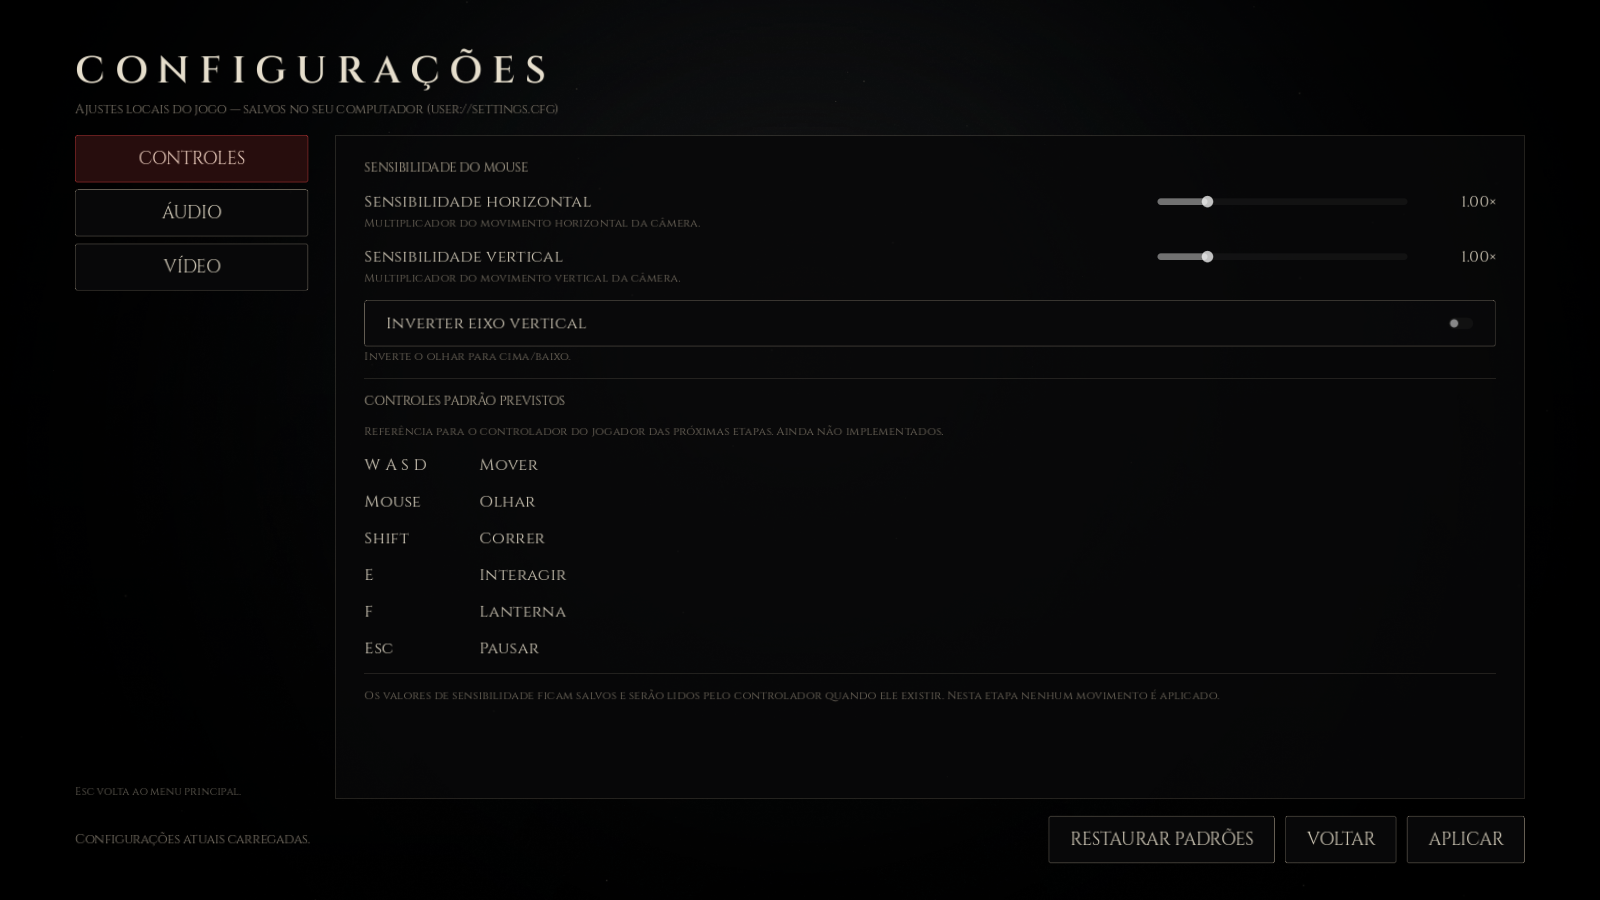
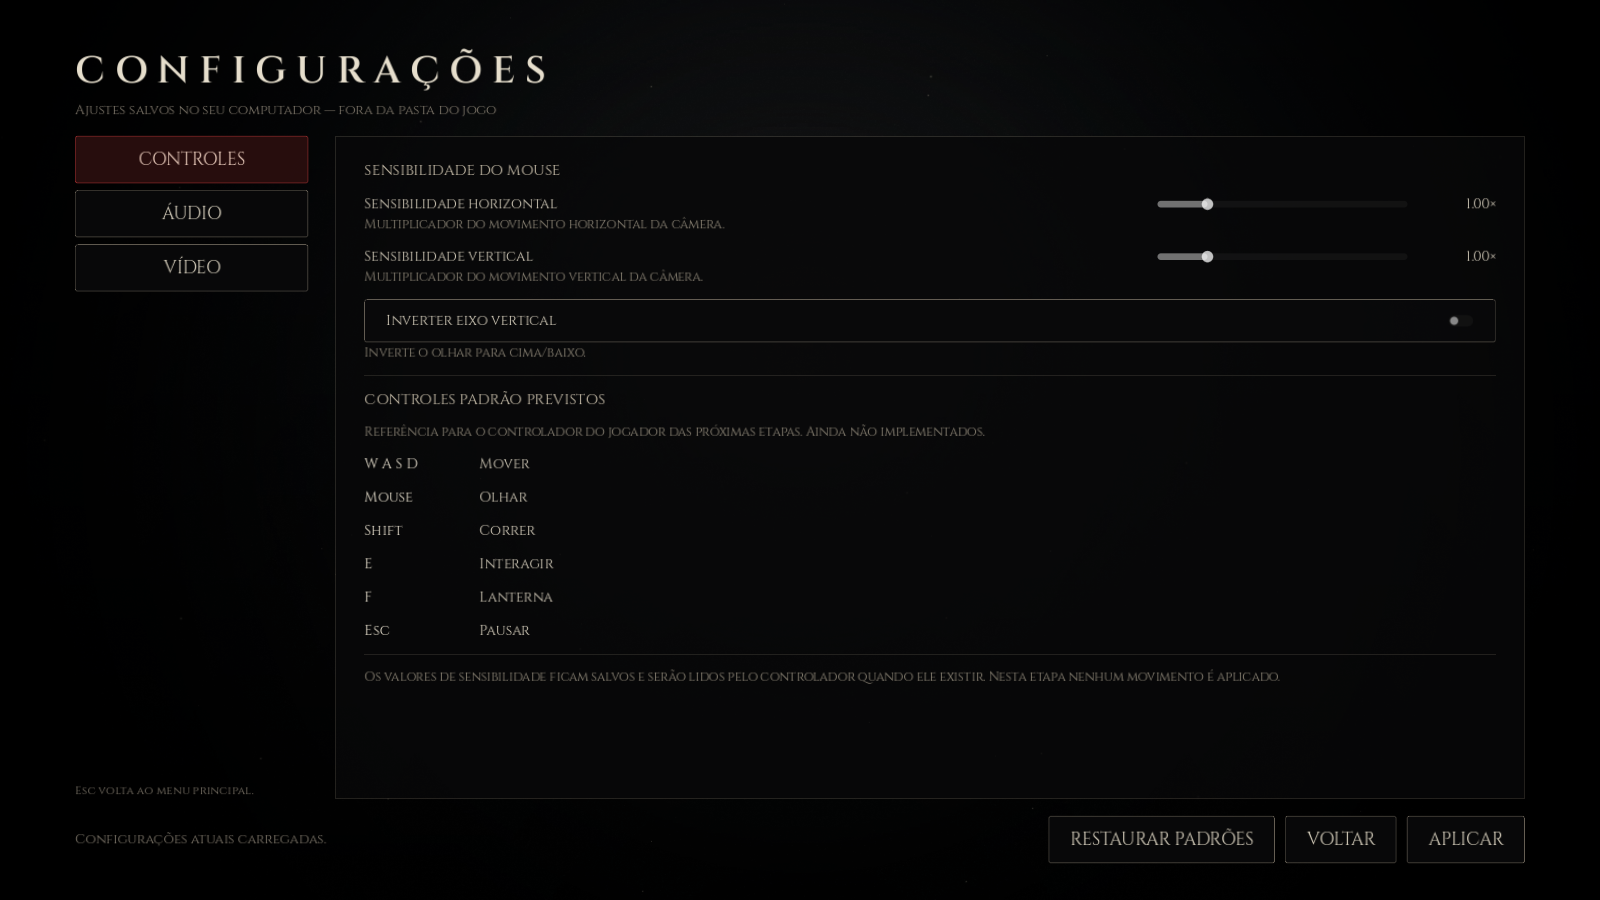
Docs: resultados reais da Etapa 3, screenshot das configurações e hash do ZIP

diff --git a/docs/ETAPA-3.md b/docs/ETAPA-3.md
@@ -96,11 +96,101 @@ devolve apenas o seu fragmento de configuração.
 
 ## 4. Testes executados
 
-_(a preencher com os resultados reais da execução do workflow)_
+Workflow [`.github/workflows/build.yml`](../.github/workflows/build.yml),
+execução **39341579671** (commit `1c8cdb9`), Godot **4.7.2-stable official**
+nos dois runners.
+
+| Job | Passos | Resultado |
+| --- | --- | --- |
+| Linux — importar, testar e validar o pacote | 22/22 | aprovado |
+| Windows real — exportar e executar o `.exe` | 18/18 | aprovado |
+
+### 4.1 Teste de fumaça (Linux e Windows)
+
+`SMOKE TEST OK — 158 verificações aprovadas` nos dois sistemas.
+
+Cobre:
+
+- configuração do projeto: nome, versão, renderizador, resolução lógica
+  1920×1080, stretch `canvas_items`/`keep`, cena principal, ícone, boot splash e
+  layout de buses;
+- autoloads `AppInfo`, `GameSettings` e `UiAudio` presentes e registrados;
+- tema, fontes Cinzel e as texturas da identidade;
+- os dois WAV de interface existem e importam;
+- módulos, READMEs, documentação e ausência de código nos módulos preparatórios;
+- cena inicial: todos os nós, JOGAR desabilitado, **CONFIGURAÇÕES** e
+  **SAIR DO JOGO** presentes e conectados;
+- esquema: sensibilidade fora da faixa é limitada; volume 500 → 100; volume
+  negativo → 0; valor inválido → padrão; **modo de janela inválido → janela**
+  (não tela cheia); resolução minúscula → mínimo legível;
+- persistência: `apply()` grava; `load_settings()` relê; **uma nova instância do
+  gerenciador lê o mesmo arquivo** (simula fechar e reabrir); arquivo corrompido
+  cai nos padrões sem falhar; `restore_defaults()` grava os padrões;
+- áudio: os 5 buses existem; 25% aplicado ao bus `SFX`; 0% silencia `Music`;
+  voltar ao padrão reativa;
+- vídeo: resolução absurda limitada ao tamanho da tela; resolução minúscula sobe
+  ao mínimo; lista de resoluções válida; rótulos em português;
+- tela de configurações: instancia, 3 abas, 3 seções, apenas uma visível por vez,
+  troca de aba, 4 sliders no áudio, **APLICAR** grava 33%, **RESTAURAR PADRÕES**
+  volta a 80%, 2 listas no vídeo (resolução e 3 modos de janela).
+
+### 4.2 Fluxo real de interface (Linux e Windows)
+
+`UI FLOW OK — 27 verificações aprovadas` nos dois sistemas. Diferente do teste
+de fumaça, aqui as **cenas trocam de verdade** (menu → configurações → menu).
+
+- tela inicial abre; emblema, título e rodapé com F11 presentes; SAIR conectado;
+- **CONFIGURAÇÕES** abre a tela; 3 abas; CONTROLES por padrão; ÁUDIO com 4 sliders;
+- volume 37% + **APLICAR** → valor em memória e no arquivo;
+- **RESTAURAR PADRÕES** + **APLICAR** → 80% em memória e no arquivo;
+- VÍDEO: resolução + 3 modos; **tela cheia** aplicada e gravada;
+- **VOLTAR** retorna ao menu; reabrir mostra o modo de janela salvo;
+- **F11** alterna (2 → 0) e volta (0 → 2), gravando a preferência.
+
+### 4.3 Build exportado (Linux, sob Xvfb)
+
+- `TESTE 5`: o executável exportado abriu a cena inicial.
+- `TESTE 5b`: o build exportado **criou**
+  `~/.local/share/BlackSight/settings.cfg` com as seções `[meta]`, `[controls]`,
+  `[audio]` e `[video]` — prova de gravação em `user://`, fora da pasta do jogo.
+- `TESTE 6`: `.pck` de **1.376.692 bytes**, formato 4, **58 recursos**,
+  incluindo `default_bus_layout`, `settings_screen`, os 4 scripts de
+  configuração e os 2 WAV importados.
+- `TESTE 3b`: render real da tela de configurações em 1600×900 →
+  [`docs/screenshots/settings_screen.png`](screenshots/settings_screen.png).
+
+### 4.4 Pacote publicado
+
+| Item | Valor |
+| --- | --- |
+| ZIP | `BlackSight-Etapa3-Windows-x86_64.zip` |
+| Tamanho | **40.611.269 bytes** |
[1 lines of base64/hex data omitted]
+| `BlackSight.exe` | 109.193.728 bytes |
+| `BlackSight.pck` | 1.376.692 bytes |
+| Release | https://github.com/EtecStudy/BLACKSITE/releases/tag/v0.3.0-etapa3 |
+
+O `digest` do asset no GitHub (`sha256:d55afd98…`) confere com o hash calculado
+no job Windows: **o arquivo publicado é exatamente o que passou nos testes**.
 
 ## 5. Teste no Windows real
 
-_(a preencher com os resultados reais do job Windows)_
+Job `windows` no runner `windows-latest` (máquina Windows real da nuvem),
+18/18 passos.
+
+| Teste | Evidência obtida |
+| --- | --- |
+| W1 — importação | `.godot/imported` criado; 13 arquivos obrigatórios presentes |
+| W2 — fumaça | `SMOKE TEST OK — 158 verificações aprovadas` |
+| W2b — fluxo | `UI FLOW OK — 27 verificações aprovadas` |
+| W3 — cena inicial | `[Black Sight] Tela inicial carregada — v0.3.0 · Godot 4.7.2-stable (official) · gl_compatibility` e `Configurações carregadas: master=80 sfx=80 ambience=70 music=60 mode=windowed resolution=1600x900 vsync=true` |
+| W4 — exportação | `BlackSight.exe` e `BlackSight.pck` gerados |
+| W5 — `.exe` exportado | primeira execução: `Arquivo de configurações criado com os valores padrão` |
+| W5b — `%APPDATA%` | `%APPDATA%\BlackSight\settings.cfg` criado pelo `.exe`, com `mouse_sensitivity_x`, `master_volume`, `window_mode` e `vsync` (conteúdo integral no log) |
+| W6 — janela | `vivo_apos_25s=True` · `titulo_janela=Black Sight` |
+| W7 — pacote e metadados | `PACOTE OK` · `ProductName=Black Sight` · `FileDescription=Black Sight — Etapa 3` · `FileVersion=0.3.0.0` |
+
+O `.exe` executado no Windows é o mesmo empacotado no ZIP publicado.
 
 ## 6. Limitações e pendências desta etapa
 
@@ -111,6 +201,14 @@ _(a preencher com os resultados reais do job Windows)_
 - VSync pode ser ignorado por alguns drivers em GL Compatibility.
 - "Janela maximizada" não guarda o tamanho anterior da janela.
 - Não há remapeamento de teclas nesta etapa.
+- Os testes automatizados de fumaça e de fluxo rodam como cena e chamam
+  `quit()` no mesmo frame; ao encerrar, a Godot imprime avisos de objetos
+  liberados tardiamente (`ObjectDB instances were leaked at exit`). São avisos
+  do processo de teste, não do jogo: o `.exe` exportado encerra sem esses
+  avisos e o código de saída dos testes é 0.
+- O teste em Windows foi feito no runner `windows-latest` (Windows Server da
+  nuvem) com execução real do `.exe`; o teste na máquina do usuário é o passo
+  final de aceite.
 
 ## 7. Como verificar manualmente
 

diff --git a/README.md b/README.md
@@ -7,13 +7,15 @@
 
 ![Tela inicial do Black Sight](docs/screenshots/title_screen.png)
 
+![Tela de configurações do Black Sight](docs/screenshots/settings_screen.png)
+
 ## Download do jogo (Windows)
 
 **https://github.com/EtecStudy/BLACKSITE/releases/download/v0.3.0-etapa3/BlackSight-Etapa3-Windows-x86_64.zip**
 
-Arquivo: `BlackSight-Etapa3-Windows-x86_64.zip` (TAMANHO_BYTES bytes)
+Arquivo: `BlackSight-Etapa3-Windows-x86_64.zip` (40.611.269 bytes)
 
-SHA-256 do ZIP: `SHA256_ZIP`
[1 lines of base64/hex data omitted]
 
 1. Baixe e extraia o ZIP (mantenha `BlackSight.exe` e `BlackSight.pck` na mesma pasta).
 2. Duplo clique em **BlackSight.exe**.
